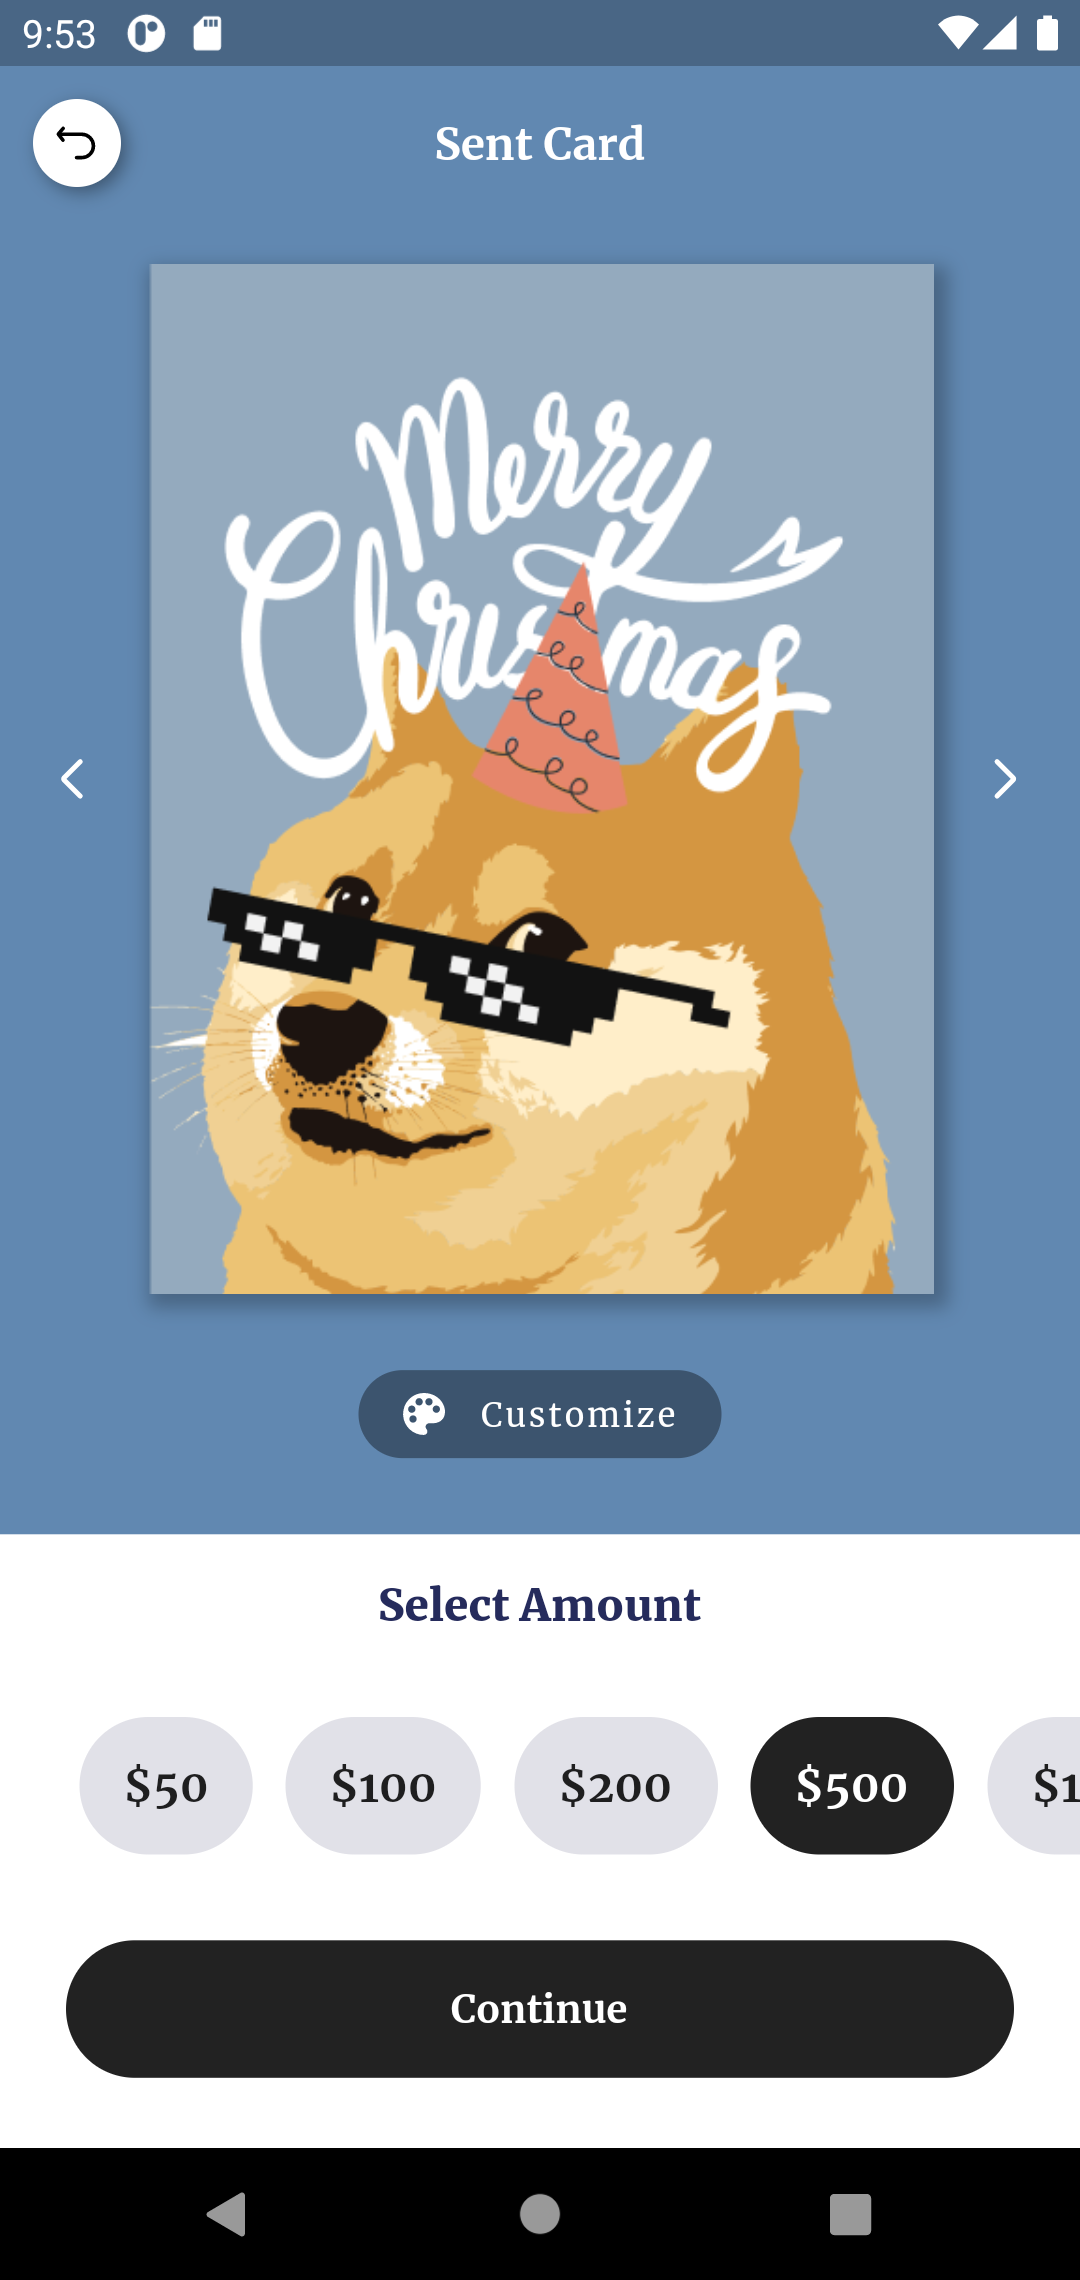
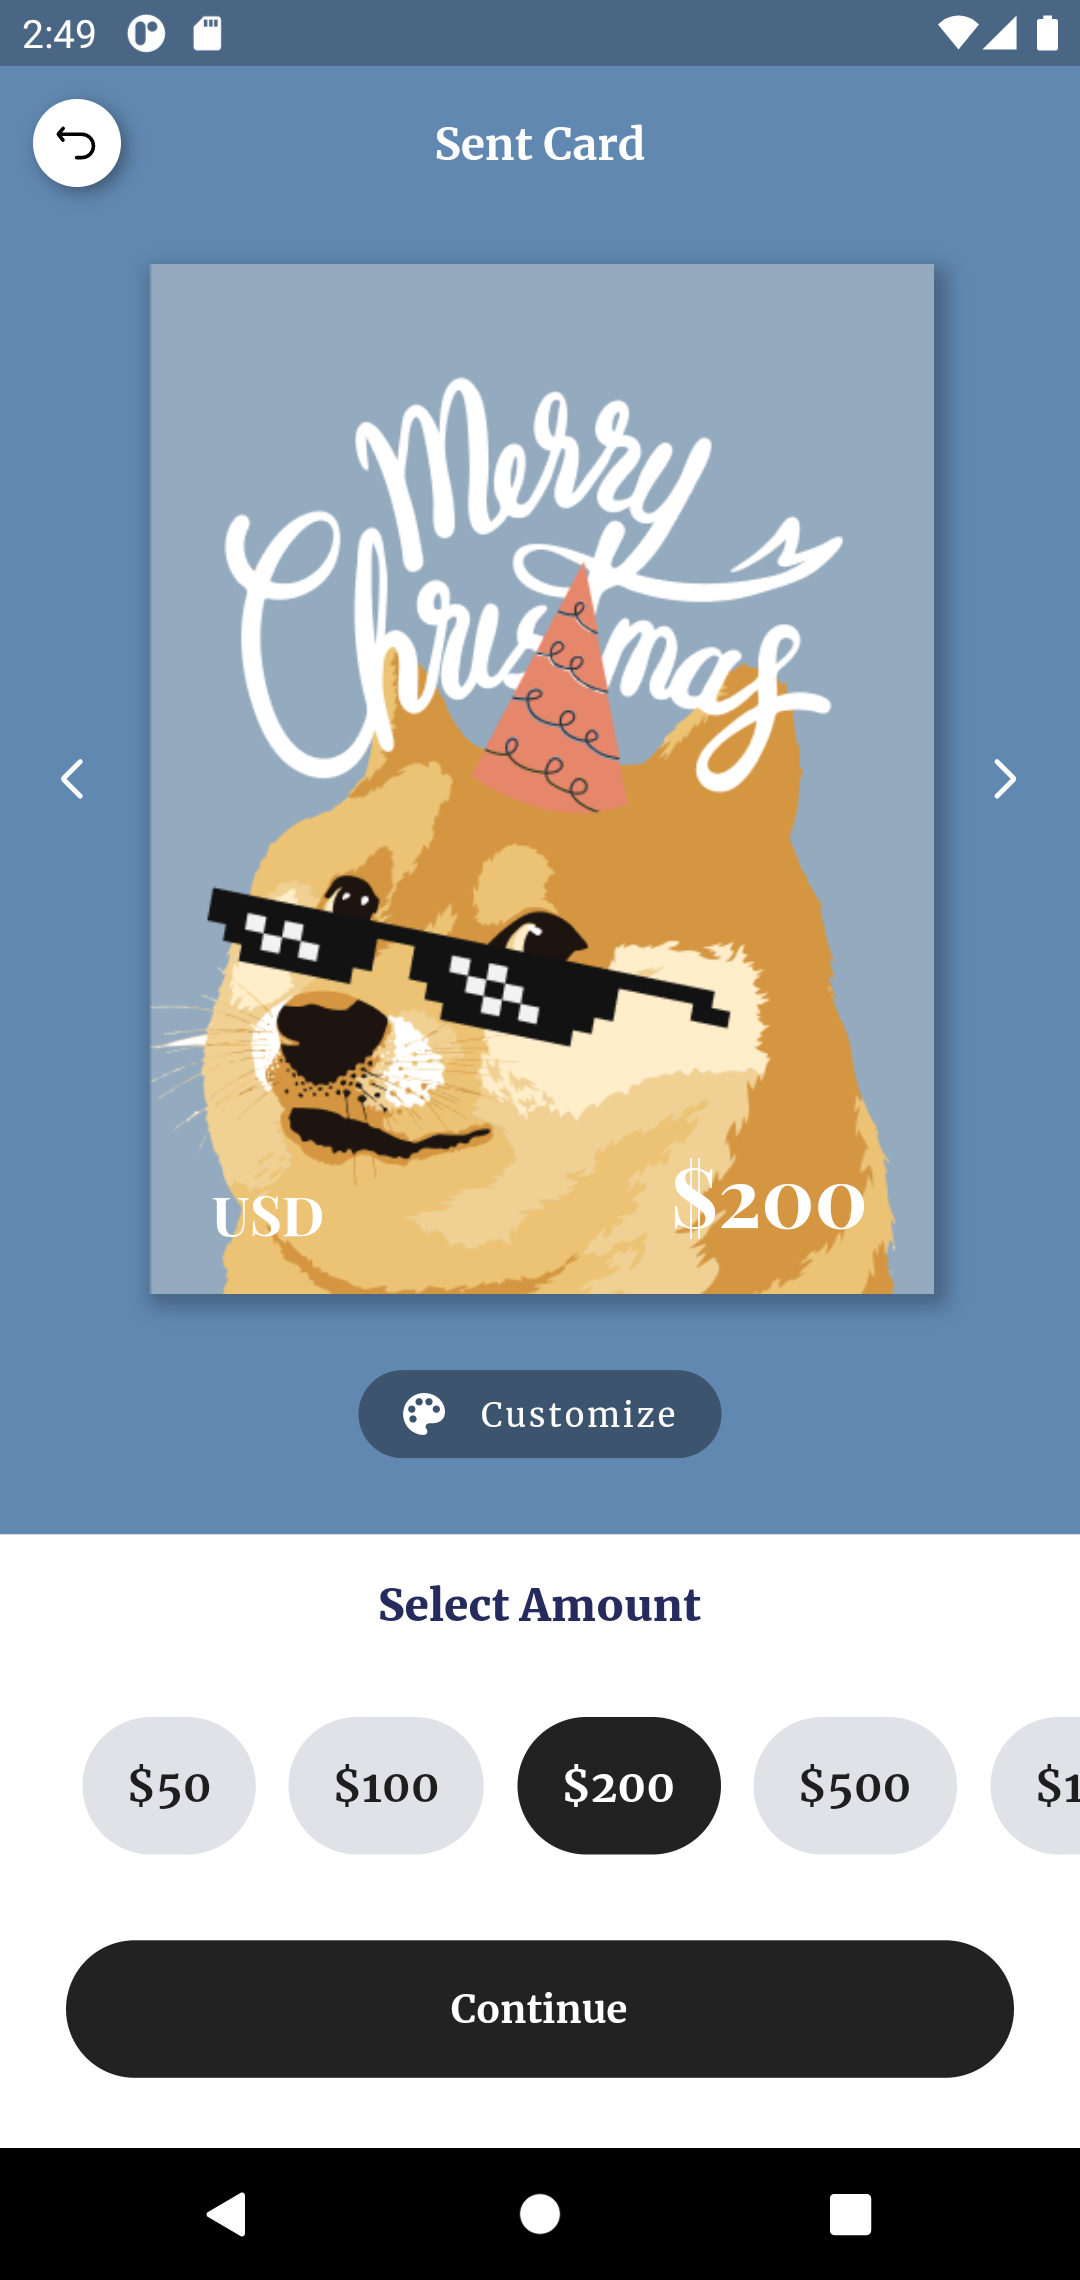
Add amount stamp when select amount

diff --git a/lib/screens/card_detail_screen.dart b/lib/screens/card_detail_screen.dart
@@ -18,6 +18,7 @@ class CardDetailScreen extends ConsumerWidget {
     final selectedCard = ref.watch(SelectedCardProvider(cardId));
     final selectedCardNotifier =
         ref.read(SelectedCardProvider(cardId).notifier);
+    final selectedGiftAmount = ref.watch(selectedGiftAmountProvider);
 
     return Scaffold(
       backgroundColor: selectedCard.value?.bgColor,
@@ -79,10 +80,21 @@ class CardDetailScreen extends ConsumerWidget {
                                       offset: Offset(3, 3)),
                                 ],
                               ),
-                              child: CustomGiftCard(
-                                model: card,
-                                width: size.width - 50,
-                                showLabel: false,
+                              child: Stack(
+                                children: [
+                                  CustomGiftCard(
+                                    model: card,
+                                    width: size.width - 50,
+                                    showLabel: false,
+                                  ),
+                                  if (selectedGiftAmount != null)
+                                    Align(
+                                      alignment: Alignment.bottomCenter,
+                                      child: _GiftStamp(
+                                        value: selectedGiftAmount,
+                                      ),
+                                    )
+                                ],
                               ),
                             ),
                           ),
@@ -105,6 +117,34 @@ class CardDetailScreen extends ConsumerWidget {
           ),
           const _CustomizeButton(),
           _GiftAmountSection(height: size.height / 3.5),
+        ],
+      ),
+    );
+  }
+}
+
+class _GiftStamp extends StatelessWidget {
+  final int value;
+  const _GiftStamp({required this.value, Key? key}) : super(key: key);
+
+  @override
+  Widget build(BuildContext context) {
+    return Padding(
+      padding: const EdgeInsets.symmetric(horizontal: 24.0, vertical: 16),
+      child: Row(
+        mainAxisAlignment: MainAxisAlignment.spaceBetween,
+        crossAxisAlignment: CrossAxisAlignment.end,
+        children: [
+          AppText.title(
+            'USD',
+            color: Colors.white,
+            fontSize: 20,
+          ),
+          AppText.title(
+            value.toDollar(),
+            color: Colors.white,
+            fontSize: 30,
+          ),
         ],
       ),
     );
